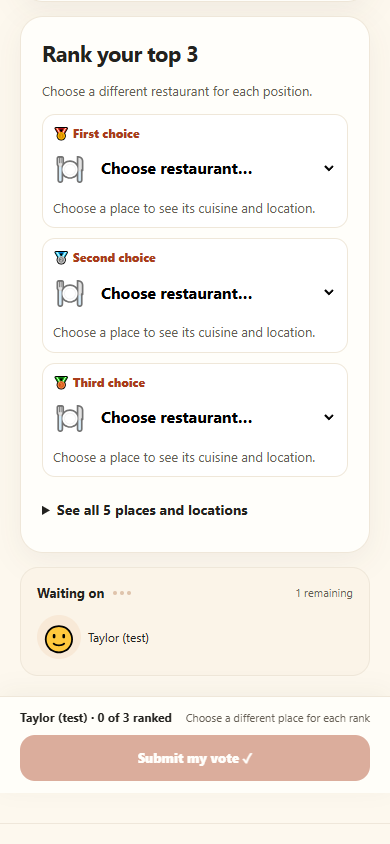
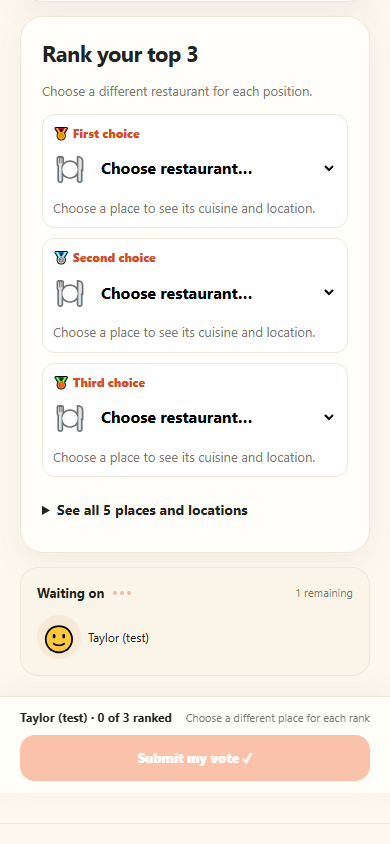
Preserve original Goodnights colors for approved release

diff --git a/styles.css b/styles.css
@@ -1,8 +1,8 @@
-:root{--ink:#23221f;--muted:#655e54;--canvas:#fdf8ee;--paper:#fffefa;--orange:#f66f40;--orange-dark:#aa3d1c;--line:#efe7d9;--mint:#e6f4ea;--lavender:#efebff;--shadow:0 8px 30px #3a2f2010;font-family:ui-rounded,'SF Pro Rounded',-apple-system,BlinkMacSystemFont,'Segoe UI',system-ui,sans-serif;color:var(--ink);background:var(--canvas)}
-*{box-sizing:border-box}body{margin:0;min-height:100vh}button,input,select{font:inherit}button{cursor:pointer}button:disabled{opacity:.42;cursor:not-allowed}button:focus-visible,input:focus-visible,select:focus-visible,a:focus-visible{outline:3px solid #8b351c;outline-offset:2px}
-a{color:inherit}.shell{min-height:100vh;max-width:900px;margin:0 auto}.topbar{display:flex;justify-content:space-between;align-items:center;padding:21px 20px 7px;gap:10px}.logo{text-decoration:none;display:flex;align-items:center;gap:9px}.brandmark{display:grid;place-items:center;color:white;background:var(--orange);width:37px;height:37px;border-radius:13px;font-size:26px;font-weight:900;transform:rotate(-9deg)}.logo strong{display:block;font-size:20px;letter-spacing:-.7px;line-height:1}.logo small{font-size:11px;color:var(--muted);font-weight:700}.pill{font-size:10px;font-weight:900;letter-spacing:1.1px;border-radius:100px;background:#fce6cf;color:#93451e;padding:7px 10px;white-space:nowrap}
-main{padding:22px 20px 30px}h1{font-size:clamp(33px,7vw,52px);line-height:1.05;letter-spacing:-1.5px;margin:0 0 13px;font-weight:850}h2{font-size:22px;letter-spacing:-.6px;margin:0 0 10px}h3{font-size:16px;margin:0 0 8px}.lede{font-size:15px;color:var(--muted);line-height:1.55;margin:0 0 24px}.eyebrow{color:var(--orange-dark);font-size:11px;font-weight:900;letter-spacing:1.5px;text-transform:uppercase;margin-bottom:11px}.card{background:var(--paper);border:1px solid var(--line);border-radius:23px;padding:21px;margin-bottom:14px;box-shadow:var(--shadow)}.hero{background:#fbe7d2;overflow:hidden;position:relative;padding:27px 24px 30px}.hero .hero-emoji{position:absolute;font-size:80px;right:-14px;bottom:-23px;transform:rotate(-12deg);opacity:.25;pointer-events:none}.hero h1{max-width:460px}.hero .btn{position:relative;z-index:1}.subtle{font-size:13px;color:var(--muted);line-height:1.5}.flex{display:flex;gap:10px;align-items:center}.between{display:flex;justify-content:space-between;align-items:center;gap:12px}.stack{display:grid;gap:12px}.grid2{display:grid;grid-template-columns:repeat(2,minmax(0,1fr));gap:12px}.btn{border:0;border-radius:15px;padding:13px 18px;display:inline-flex;align-items:center;justify-content:center;gap:8px;font-weight:800;text-align:center;line-height:1.2;min-height:46px}.btn-primary{background:var(--orange-dark);color:white}.btn-primary:hover:not(:disabled){background:#873016}.btn-dark{background:var(--ink);color:white}.btn-quiet{background:#f7f0e6;color:var(--ink)}.btn-line{background:transparent;border:1px solid #dfd7cb}.btn-full{width:100%}.btn-sm{min-height:36px;padding:8px 12px;border-radius:10px;font-size:12px}.btn-row{display:flex;gap:10px;flex-wrap:wrap}.btn-row .btn{flex:1}.nav{display:flex;gap:5px;background:#f4ecdf;padding:5px;border-radius:15px;margin-bottom:19px}.nav button{flex:1;background:transparent;border:0;border-radius:11px;padding:11px 5px;color:var(--muted);font-size:12px;font-weight:800}.nav button.active{background:white;color:var(--ink);box-shadow:0 3px 11px #3b251115}
-.field{display:grid;gap:7px;margin:14px 0}.field label{font-size:12px;font-weight:850}.field input,.field select,.searchbox{width:100%;border:1px solid #e5dccc;background:#fff;border-radius:13px;padding:13px 14px;min-height:46px;outline:none}.field input:focus,.field select:focus,.searchbox:focus{border-color:var(--orange)}.field-row{display:grid;grid-template-columns:1fr 1fr;gap:12px}.item{display:flex;gap:12px;align-items:center;padding:13px 0;border-bottom:1px solid #eee9e0}.item:last-child{border:0;padding-bottom:0}.foodicon{height:48px;width:48px;flex:0 0 48px;display:grid;place-items:center;font-size:25px;background:#f9f2e7;border-radius:15px}.item-body{flex:1;min-width:0}.item-title{font-size:14px;font-weight:850;overflow-wrap:anywhere}.item-detail{font-size:12px;line-height:1.4;color:var(--muted);margin-top:2px;overflow-wrap:anywhere}.check{appearance:none;border:2px solid #dfd5c5;width:22px;height:22px;border-radius:7px;flex:0 0 22px;display:grid;place-items:center}.check:checked{background:var(--orange-dark);border-color:var(--orange-dark)}.check:checked::after{content:'✓';color:white;font-size:15px;font-weight:900}.method{display:flex;gap:10px;align-items:flex-start;border:1.5px solid var(--line);border-radius:15px;padding:14px;margin:8px 0;cursor:pointer;background:white}.method.checked{border-color:var(--orange);background:#fff7f0}.method .methodmark{height:38px;width:38px;display:grid;place-items:center;background:#faf0e4;border-radius:12px;font-size:21px;flex:0 0 38px}.method strong{display:block;font-size:14px}.method small{display:block;font-size:12px;color:var(--muted);margin-top:3px;line-height:1.45}.method input{position:absolute;opacity:0;width:1px;height:1px}.method:focus-within{outline:2px solid var(--orange)}.count{display:inline-grid;place-items:center;background:#fff0e2;color:var(--orange-dark);font-size:12px;font-weight:900;padding:7px 10px;border-radius:100px}.empty{text-align:center;padding:27px 12px}.empty-emoji{font-size:45px;display:block;margin-bottom:9px}.empty p{color:var(--muted);font-size:13px}.empty .btn{margin-top:9px}.progress{height:7px;background:#f1ebdf;border-radius:50px;overflow:hidden;margin:12px 0 20px}.progress span{height:100%;display:block;background:var(--orange);border-radius:50px;transition:width .2s}.votecard{background:#fff5e8;border:1px solid #fae9d3;border-radius:22px;min-height:260px;text-align:center;padding:34px 14px;display:grid;align-content:center;gap:7px}.votecard .foodicon{height:92px;width:92px;font-size:52px;margin:auto}.votecard h2{margin:9px 0 0}.votecard p{color:var(--muted);font-size:13px;margin:0}.vote-btns{display:flex;gap:10px;margin-top:20px}.vote-btns button{flex:1}.rankoption{border:1px solid var(--line);border-radius:13px;padding:10px;margin-bottom:10px;background:#fff}.rankoption select{border:0;background:transparent;width:100%;font-weight:700;outline:none}.rankoption label{font-size:12px;color:var(--orange-dark);font-weight:900;display:block;margin-bottom:5px}.resultbar{margin:14px 0}.bar-head{display:flex;justify-content:space-between;gap:12px;font-size:13px;font-weight:800;margin-bottom:7px}.bar-track{height:12px;background:#f3ede5;border-radius:10px;overflow:hidden}.bar-fill{background:var(--orange);height:100%;border-radius:10px}.winner{background:#f9e9cb;text-align:center;padding:26px 15px}.winner .trophy{font-size:40px}.winner h1{font-size:31px;margin-top:8px}.toast{position:fixed;left:50%;transform:translateX(-50%);top:15px;z-index:20;background:var(--ink);color:#fff;border-radius:12px;padding:10px 17px;font-size:13px;max-width:min(90%,460px);box-shadow:0 12px 30px #0002;display:none}.toast.show{display:block}.footer{padding:18px 20px 27px;display:flex;justify-content:space-between;gap:15px;font-size:11px;color:var(--muted);border-top:1px solid #efe7da;flex-wrap:wrap}.footer a{color:inherit}.copyline{padding:10px 12px;border:1px dashed #d8cbb6;background:#fffaf3;border-radius:11px;font-size:12px;word-break:break-all}.status{font-size:12px;background:var(--mint);padding:7px 10px;border-radius:40px;font-weight:800;color:#36714a}.status.closed{background:#eee9e3;color:var(--muted)}.muted-box{background:#fbf6ed;border:1px solid #f3e6d5;padding:13px 15px;border-radius:14px;font-size:13px;line-height:1.5;color:var(--muted)}.note{font-size:12px;color:var(--muted);line-height:1.55}.danger{color:#a34a3c}.toggle{display:flex;align-items:center;gap:7px;font-size:13px;font-weight:700}.toggle input{accent-color:var(--orange)}
+:root{--ink:#23221f;--muted:#7b786f;--canvas:#fdf8ee;--paper:#fffefa;--orange:#f66f40;--orange-dark:#d84b23;--line:#efe7d9;--mint:#e6f4ea;--lavender:#efebff;--shadow:0 8px 30px #3a2f2010;font-family:ui-rounded,'SF Pro Rounded',-apple-system,BlinkMacSystemFont,'Segoe UI',system-ui,sans-serif;color:var(--ink);background:var(--canvas)}
+*{box-sizing:border-box}body{margin:0;min-height:100vh}button,input,select{font:inherit}button{cursor:pointer}button:disabled{opacity:.42;cursor:not-allowed}button:focus-visible,input:focus-visible,select:focus-visible,a:focus-visible{outline:3px solid #ef9156;outline-offset:2px}
+a{color:inherit}.shell{min-height:100vh;max-width:900px;margin:0 auto}.topbar{display:flex;justify-content:space-between;align-items:center;padding:21px 20px 7px;gap:10px}.logo{text-decoration:none;display:flex;align-items:center;gap:9px}.brandmark{display:grid;place-items:center;color:white;background:var(--orange);width:37px;height:37px;border-radius:13px;font-size:26px;font-weight:900;transform:rotate(-9deg)}.logo strong{display:block;font-size:20px;letter-spacing:-.7px;line-height:1}.logo small{font-size:11px;color:var(--muted);font-weight:700}.pill{font-size:10px;font-weight:900;letter-spacing:1.1px;border-radius:100px;background:#fce6cf;color:#ae5a29;padding:7px 10px;white-space:nowrap}
+main{padding:22px 20px 30px}h1{font-size:clamp(33px,7vw,52px);line-height:1.05;letter-spacing:-1.5px;margin:0 0 13px;font-weight:850}h2{font-size:22px;letter-spacing:-.6px;margin:0 0 10px}h3{font-size:16px;margin:0 0 8px}.lede{font-size:15px;color:#777165;line-height:1.55;margin:0 0 24px}.eyebrow{color:var(--orange-dark);font-size:11px;font-weight:900;letter-spacing:1.5px;text-transform:uppercase;margin-bottom:11px}.card{background:var(--paper);border:1px solid var(--line);border-radius:23px;padding:21px;margin-bottom:14px;box-shadow:var(--shadow)}.hero{background:#fbe7d2;overflow:hidden;position:relative;padding:27px 24px 30px}.hero .hero-emoji{position:absolute;font-size:80px;right:-14px;bottom:-23px;transform:rotate(-12deg);opacity:.25;pointer-events:none}.hero h1{max-width:460px}.hero .btn{position:relative;z-index:1}.subtle{font-size:13px;color:var(--muted);line-height:1.5}.flex{display:flex;gap:10px;align-items:center}.between{display:flex;justify-content:space-between;align-items:center;gap:12px}.stack{display:grid;gap:12px}.grid2{display:grid;grid-template-columns:repeat(2,minmax(0,1fr));gap:12px}.btn{border:0;border-radius:15px;padding:13px 18px;display:inline-flex;align-items:center;justify-content:center;gap:8px;font-weight:800;text-align:center;line-height:1.2;min-height:46px}.btn-primary{background:var(--orange);color:white}.btn-primary:hover:not(:disabled){background:var(--orange-dark)}.btn-dark{background:var(--ink);color:white}.btn-quiet{background:#f7f0e6;color:var(--ink)}.btn-line{background:transparent;border:1px solid #dfd7cb}.btn-full{width:100%}.btn-sm{min-height:36px;padding:8px 12px;border-radius:10px;font-size:12px}.btn-row{display:flex;gap:10px;flex-wrap:wrap}.btn-row .btn{flex:1}.nav{display:flex;gap:5px;background:#f4ecdf;padding:5px;border-radius:15px;margin-bottom:19px}.nav button{flex:1;background:transparent;border:0;border-radius:11px;padding:11px 5px;color:#77736d;font-size:12px;font-weight:800}.nav button.active{background:white;color:var(--ink);box-shadow:0 3px 11px #3b251115}
+.field{display:grid;gap:7px;margin:14px 0}.field label{font-size:12px;font-weight:850}.field input,.field select,.searchbox{width:100%;border:1px solid #e5dccc;background:#fff;border-radius:13px;padding:13px 14px;min-height:46px;outline:none}.field input:focus,.field select:focus,.searchbox:focus{border-color:var(--orange)}.field-row{display:grid;grid-template-columns:1fr 1fr;gap:12px}.item{display:flex;gap:12px;align-items:center;padding:13px 0;border-bottom:1px solid #eee9e0}.item:last-child{border:0;padding-bottom:0}.foodicon{height:48px;width:48px;flex:0 0 48px;display:grid;place-items:center;font-size:25px;background:#f9f2e7;border-radius:15px}.item-body{flex:1;min-width:0}.item-title{font-size:14px;font-weight:850;overflow-wrap:anywhere}.item-detail{font-size:12px;line-height:1.4;color:#817d75;margin-top:2px;overflow-wrap:anywhere}.check{appearance:none;border:2px solid #dfd5c5;width:22px;height:22px;border-radius:7px;flex:0 0 22px;display:grid;place-items:center}.check:checked{background:var(--orange);border-color:var(--orange)}.check:checked::after{content:'✓';color:white;font-size:15px;font-weight:900}.method{display:flex;gap:10px;align-items:flex-start;border:1.5px solid var(--line);border-radius:15px;padding:14px;margin:8px 0;cursor:pointer;background:white}.method.checked{border-color:var(--orange);background:#fff7f0}.method .methodmark{height:38px;width:38px;display:grid;place-items:center;background:#faf0e4;border-radius:12px;font-size:21px;flex:0 0 38px}.method strong{display:block;font-size:14px}.method small{display:block;font-size:12px;color:var(--muted);margin-top:3px;line-height:1.45}.method input{position:absolute;opacity:0;width:1px;height:1px}.method:focus-within{outline:2px solid var(--orange)}.count{display:inline-grid;place-items:center;background:#fff0e2;color:var(--orange-dark);font-size:12px;font-weight:900;padding:7px 10px;border-radius:100px}.empty{text-align:center;padding:27px 12px}.empty-emoji{font-size:45px;display:block;margin-bottom:9px}.empty p{color:var(--muted);font-size:13px}.empty .btn{margin-top:9px}.progress{height:7px;background:#f1ebdf;border-radius:50px;overflow:hidden;margin:12px 0 20px}.progress span{height:100%;display:block;background:var(--orange);border-radius:50px;transition:width .2s}.votecard{background:#fff5e8;border:1px solid #fae9d3;border-radius:22px;min-height:260px;text-align:center;padding:34px 14px;display:grid;align-content:center;gap:7px}.votecard .foodicon{height:92px;width:92px;font-size:52px;margin:auto}.votecard h2{margin:9px 0 0}.votecard p{color:var(--muted);font-size:13px;margin:0}.vote-btns{display:flex;gap:10px;margin-top:20px}.vote-btns button{flex:1}.rankoption{border:1px solid var(--line);border-radius:13px;padding:10px;margin-bottom:10px;background:#fff}.rankoption select{border:0;background:transparent;width:100%;font-weight:700;outline:none}.rankoption label{font-size:12px;color:var(--orange-dark);font-weight:900;display:block;margin-bottom:5px}.resultbar{margin:14px 0}.bar-head{display:flex;justify-content:space-between;gap:12px;font-size:13px;font-weight:800;margin-bottom:7px}.bar-track{height:12px;background:#f3ede5;border-radius:10px;overflow:hidden}.bar-fill{background:var(--orange);height:100%;border-radius:10px}.winner{background:#f9e9cb;text-align:center;padding:26px 15px}.winner .trophy{font-size:40px}.winner h1{font-size:31px;margin-top:8px}.toast{position:fixed;left:50%;transform:translateX(-50%);top:15px;z-index:20;background:var(--ink);color:#fff;border-radius:12px;padding:10px 17px;font-size:13px;max-width:min(90%,460px);box-shadow:0 12px 30px #0002;display:none}.toast.show{display:block}.footer{padding:18px 20px 27px;display:flex;justify-content:space-between;gap:15px;font-size:11px;color:#aba293;border-top:1px solid #efe7da;flex-wrap:wrap}.footer a{color:inherit}.copyline{padding:10px 12px;border:1px dashed #d8cbb6;background:#fffaf3;border-radius:11px;font-size:12px;word-break:break-all}.status{font-size:12px;background:var(--mint);padding:7px 10px;border-radius:40px;font-weight:800;color:#36714a}.status.closed{background:#eee9e3;color:#7b746c}.muted-box{background:#fbf6ed;border:1px solid #f3e6d5;padding:13px 15px;border-radius:14px;font-size:13px;line-height:1.5;color:#7b7368}.note{font-size:12px;color:var(--muted);line-height:1.55}.danger{color:#a34a3c}.toggle{display:flex;align-items:center;gap:7px;font-size:13px;font-weight:700}.toggle input{accent-color:var(--orange)}
 @media(min-width:700px){main{padding:30px 35px 50px}.topbar{padding:27px 35px 8px}.footer{padding:20px 35px}.hero{padding:44px}.card{padding:24px}.cols{display:grid;grid-template-columns:1fr 1fr;gap:16px}.cols .card{margin-bottom:0}}
 @media(max-width:385px){main{padding:16px 12px}.topbar{padding:19px 13px 5px}.grid2{grid-template-columns:1fr}.field-row{grid-template-columns:1fr}.btn{font-size:13px}.logo strong{font-size:18px}}
 
@@ -56,9 +56,9 @@ main{padding:22px 20px 30px}h1{font-size:clamp(33px,7vw,52px);line-height:1.05;l
 .member-identity>.member-avatar{width:72px;height:72px;flex-basis:72px;font-size:40px}
 .member-invite summary .member-avatar{width:48px;height:48px;flex-basis:48px;font-size:28px}
 .member-identity strong{font-size:19px}
-.wizard-flow{padding-bottom:140px}.wizard-steps{display:grid;grid-template-columns:repeat(4,minmax(0,1fr));gap:5px;margin:20px 0}.wizard-steps button{border:0;min-height:62px;padding:7px 2px;border-radius:13px;background:#f4ecdf;font-size:12px;font-weight:800;color:var(--muted)}.wizard-steps button span{display:block;font-size:15px;margin-bottom:3px}.wizard-steps button.active{background:var(--orange-dark);color:white}
+.wizard-flow{padding-bottom:140px}.wizard-steps{display:grid;grid-template-columns:repeat(4,minmax(0,1fr));gap:5px;margin:20px 0}.wizard-steps button{border:0;min-height:62px;padding:7px 2px;border-radius:13px;background:#f4ecdf;font-size:12px;font-weight:800;color:#756c60}.wizard-steps button span{display:block;font-size:15px;margin-bottom:3px}.wizard-steps button.active{background:#f66f40;color:white}
 .wizard-actions{position:fixed;z-index:12;left:50%;transform:translateX(-50%);bottom:0;width:min(100%,900px);padding:12px 20px calc(12px + env(safe-area-inset-bottom));background:#fffefaef;backdrop-filter:blur(14px);border-top:1px solid var(--line);box-shadow:0 -5px 24px #30220b0c;display:flex;align-items:center;gap:14px}.wizard-count{flex:1;min-width:0}.wizard-count strong{display:block;font-size:14px}.wizard-count span{display:block;font-size:11px;color:var(--muted);margin-top:4px}.wizard-actions .btn-row{flex-wrap:nowrap}.wizard-actions .btn{font-size:13px;padding:12px 16px}.practice-link{margin:0 0 15px}.review-hero{background:#fbe7d2}
-.people-grid{display:grid;grid-template-columns:repeat(3,minmax(0,1fr));gap:10px;margin:18px 0}.person-option{position:relative;border:2px solid var(--line);border-radius:18px;padding:14px 5px 12px;text-align:center;background:white;display:flex;flex-direction:column;align-items:center;gap:9px;cursor:pointer;min-width:0}.person-option strong{font-size:13px;overflow-wrap:anywhere}.person-option input{position:absolute;top:7px;right:7px;width:18px;height:18px;accent-color:var(--orange)}.person-option.selected{border-color:var(--orange);background:#fff6ec}.person-option:focus-within{outline:3px solid #8b351c;outline-offset:2px}.review-people .person-option{cursor:default;background:#fff8ef}
+.people-grid{display:grid;grid-template-columns:repeat(3,minmax(0,1fr));gap:10px;margin:18px 0}.person-option{position:relative;border:2px solid var(--line);border-radius:18px;padding:14px 5px 12px;text-align:center;background:white;display:flex;flex-direction:column;align-items:center;gap:9px;cursor:pointer;min-width:0}.person-option strong{font-size:13px;overflow-wrap:anywhere}.person-option input{position:absolute;top:7px;right:7px;width:18px;height:18px;accent-color:var(--orange)}.person-option.selected{border-color:var(--orange);background:#fff6ec}.person-option:focus-within{outline:3px solid #ef9156;outline-offset:2px}.review-people .person-option{cursor:default;background:#fff8ef}
 .people-panel{background:#fbf4e8;border:1px solid var(--line);border-radius:18px;padding:16px;margin:14px 0 20px}.people-panel>.between strong{font-size:13px}.people-panel>.between span{font-size:11px}.waiting-strip{display:flex;gap:12px;align-items:center;flex-wrap:wrap;margin-top:14px}.waiting-person{display:flex;align-items:center;gap:7px;min-width:0}.waiting-person>span:last-child{font-size:12px;max-width:90px;overflow-wrap:anywhere}.waiting-person .member-avatar{width:44px;height:44px;flex-basis:44px;font-size:25px}.people-status summary{font-size:12px;font-weight:750;min-height:40px;cursor:pointer;display:list-item;align-content:center}.person-status-row{display:flex;gap:9px;align-items:center;padding:12px 0;border-top:1px solid var(--line)}.person-status-row .member-avatar{width:44px;height:44px;flex-basis:44px;font-size:24px}.person-status-row strong{flex:1;min-width:0;overflow-wrap:anywhere;font-size:13px}.person-status-row .subtle{font-size:11px}.person-status-row .btn{padding:8px;font-size:11px}.reminder-draft .btn{text-decoration:none;flex:1 1 90px}.winner .foodicon{width:88px;height:88px;margin:0 auto 15px}.winner h1 .restaurant-brand-image,.winner h1 .logo-symbol{width:64px;height:64px}.winner-address{font-size:14px;line-height:1.6;max-width:420px;margin:14px auto 20px}.winner a{text-decoration:none}
 @media(max-width:385px){.wizard-actions{padding-left:12px;padding-right:12px;gap:8px}.wizard-actions .btn{padding:12px 10px;font-size:12px}.wizard-count strong{font-size:12px}.people-grid{gap:7px}.person-option .member-avatar{width:58px;height:58px;flex-basis:58px}.person-status-row{gap:6px}.waiting-person>span:last-child{max-width:72px}}
 .wizard-actions .btn-row{flex:0 0 auto}.wizard-actions .btn{flex:0 0 auto;white-space:nowrap}.winner h1{overflow-wrap:anywhere}.winner-place-logo{display:grid;place-items:center;margin:10px auto 16px}.winner-place-logo .logo-symbol,.winner-place-logo .restaurant-brand-image{width:76px;height:76px;object-fit:contain}
@@ -91,19 +91,15 @@ main{padding:22px 20px 30px}h1{font-size:clamp(33px,7vw,52px);line-height:1.05;l
 
 /* Readable ballot details and restrained directional feedback. */
 .topbar{flex-wrap:wrap}.topbar .logo{min-width:0;max-width:100%}.logo>span:last-child{min-width:0;overflow-wrap:anywhere}.topbar .pill{max-width:100%;white-space:normal}
-.field input:focus-visible,.field select:focus-visible,.rankoption select:focus-visible,#swipeCard:focus-visible{outline:3px solid #8b351c;outline-offset:3px}
-.method:focus-within{outline:3px solid #8b351c;outline-offset:2px}
-.check{border-color:#8c8172}.check:focus-visible{outline:3px solid #8b351c}
-.toggle input,.setting-row input,.person-option input{accent-color:var(--orange-dark)}
+.field input:focus-visible,.field select:focus-visible,.rankoption select:focus-visible,#swipeCard:focus-visible{outline:3px solid #ef9156;outline-offset:3px}
+.method:focus-within{outline:3px solid #ef9156;outline-offset:2px}
 .item-detail,.rank-details{font-size:13px;line-height:1.5}
 .ballot-places summary{cursor:pointer;min-height:44px;align-content:center;font-size:14px;font-weight:750}
 .rank-details{margin:8px 0 0;overflow-wrap:anywhere}
-.votecard{position:relative;padding:18px 14px 24px;transform:translateX(var(--swipe-x,0px)) rotate(var(--swipe-tilt,0deg));transition:transform .14s ease-out,border-color .14s ease-out}
+.votecard{position:relative;padding:18px 14px 24px;transform:translateX(var(--swipe-x,0px)) rotate(var(--swipe-tilt,0deg));transition:transform .14s ease-out}
 .votecard h2,.votecard .restaurant-facts{overflow-wrap:anywhere}
 .votecard .restaurant-facts{color:var(--muted);font-size:14px;line-height:1.5}
 .swipe-direction{justify-self:center;min-height:28px;padding:4px 10px;border-radius:8px;font-size:13px;font-weight:850;color:var(--ink)}
-#swipeCard[data-direction="yes"]{border-color:#28734e}#swipeCard[data-direction="yes"] .swipe-direction{background:#e6f4ea;color:#205c3b}
-#swipeCard[data-direction="no"]{border-color:#aa3d1c}#swipeCard[data-direction="no"] .swipe-direction{background:#fbe7d2;color:#873016}
 .votecard .swipe-answer{font-size:13px;font-weight:750;color:var(--ink)}
 #swipeInstructions{text-align:center;margin:12px 0 0}
 .vote-btns{margin-top:12px}.vote-btns .btn{min-width:0;padding:13px 10px}

diff --git a/tests/ballot-accessibility.test.js b/tests/ballot-accessibility.test.js
@@ -1,20 +1,18 @@
 const test=require('node:test'),assert=require('node:assert/strict'),fs=require('node:fs'),path=require('node:path');
 const css=fs.readFileSync(path.join(__dirname,'../styles.css'),'utf8');
-const vars=Object.fromEntries([...css.matchAll(/--([\w-]+):(#[0-9a-f]{6})/g)].map(m=>[m[1],m[2]]));
-function luminance(hex){const rgb=hex.slice(1).match(/../g).map(n=>parseInt(n,16)/255).map(v=>v<=.04045?v/12.92:((v+.055)/1.055)**2.4);return rgb[0]*.2126+rgb[1]*.7152+rgb[2]*.0722}
-function ratio(a,b){const x=luminance(a),y=luminance(b);return (Math.max(x,y)+.05)/(Math.min(x,y)+.05)}
-const resolve=value=>value==='white'?'#ffffff':value.startsWith('var(')?vars[value.slice(6,-1)]:value;
-test('ballot secondary text and accent labels exceed 4.5:1 on their cream surfaces',()=>{
- for(const bg of [vars.canvas,vars.paper,'#fff5e8','#fbf6ed','#fbf4e8'])for(const fg of [vars.muted,vars.ink,vars['orange-dark']])assert.ok(ratio(fg,bg)>=4.5,fg+' on '+bg);
+test('release retains the existing Goodnights brand and text palette',()=>{
+ for(const token of ['--ink:#23221f','--muted:#7b786f','--orange:#f66f40','--orange-dark:#d84b23'])assert.ok(css.includes(token));
+ assert.ok(css.includes('.btn-primary{background:var(--orange);color:white}'));
+ assert.ok(css.includes('.btn-primary:hover:not(:disabled){background:var(--orange-dark)}'));
+ assert.ok(css.includes('.check:checked{background:var(--orange);border-color:var(--orange)}'));
 });
-test('enabled primary actions and checked approvals exceed 4.5:1',()=>{
- const primary=css.match(/\.btn-primary\{background:([^;]+);color:([^}]+)\}/);
- assert.ok(ratio(resolve(primary[1]),resolve(primary[2]))>=4.5);
- const selected=css.match(/\.check:checked\{background:([^;]+);/)[1];
- assert.ok(ratio(resolve(selected),'#ffffff')>=4.5);
+test('new directional feedback uses text and retains the original palette',()=>{
+ const added=css.split('/* Readable ballot details and restrained directional feedback. */')[1];
+ assert.ok(!added.includes('[data-direction=\"yes\"]'));assert.ok(!added.includes('[data-direction=\"no\"]'));
+ assert.deepEqual([...new Set(added.match(/#[0-9a-f]{6}/g))],['#ef9156']);
 });
-test('focus ring and checkbox boundary remain visible at 3:1 or better',()=>{
- const focus=css.match(/button:focus-visible[^}]+outline:3px solid (#[0-9a-f]{6})/)[1];
- for(const bg of [vars.paper,vars.canvas,'#fff5e8'])assert.ok(ratio(focus,bg)>=3);
- const boundary=css.match(/\.check\{border-color:(#[0-9a-f]{6})/)[1];assert.ok(ratio(boundary,vars.paper)>=3);
+test('native fields and swipe backtracking have visible focus and comfortable detail controls',()=>{
+ assert.match(css,/\.rankoption select:focus-visible,#swipeCard:focus-visible\{outline:3px solid #ef9156/);
+ assert.match(css,/\.ballot-places summary\{[^}]*min-height:44px/);
+ assert.match(css,/@media\(prefers-reduced-motion:reduce\)\{\.votecard\{transform:none!important;transition:none!important/);
 });

diff --git a/docs/qa/q1-h3/README.md b/docs/qa/q1-h3/README.md
@@ -18,13 +18,13 @@ Two identically named places now have distinct saved addresses. Missing location
 
 ## Automated evidence
 
-- Baseline Node suite: 63/63 passed. Final suite: 69/69 passed, including contrast, location/fallback, select-detail updates, scroll-direction lock, second-finger cancellation and mismatched-touch coverage. Existing editing, failed-save, focus and logo tests still pass.
-- Contrast calculations: white primary-button text **6.19:1** (formerly **2.89:1**); muted copy on the swipe background **5.93:1** (formerly **4.09:1**). Ordinary ballot secondary text/accent labels exceed 4.5:1 across the tested cream surfaces; focus rings and checkbox boundaries exceed 3:1. Disabled controls remain visually subdued and are excluded from enabled-text contrast assertions.
+- Baseline Node suite: 63/63 passed. Final suite: 69/69 passed, including original-palette preservation, location/fallback, select-detail updates, scroll-direction lock, second-finger cancellation and mismatched-touch coverage. Existing editing, failed-save, focus and logo tests still pass.
+- Release scope adjustment: original brand, button, text, checkbox and focus colors are preserved. Color contrast changes were removed by request; no improved contrast ratio is claimed. Directional feedback uses words and movement, with reduced-motion support.
 - Headless Edge/Chromium with Playwright 1.62.1: approval, swipe and ranked ballots at **320, 375, 390, 430px**; landscape **844×390** and short viewport **390×420**. No horizontal overflow against the requested viewport width, including simulated 200% text sizing at 320px.
 - Keyboard: Space selects approvals without losing focus; Enter answers consensus and retains button focus; Tab moves between native ranked controls. Select identity/focus and duplicate clearing are verified in the real DOM.
 - Actual Chromium touch injection: vertical movement scrolls without answering; horizontal movement provides a directional text cue and restrained transform, then answers exactly once on release; cancelled gestures do not answer. Reduced-motion transform is `none`. DOM fixture tests also exercise a scroll that ends with sideways drift, a second finger and an unrelated touch identifier.
 - All five consensus answers, backtracking after the final card, explicit submission, failed saves and retries for **all three voting methods**. Exact saved payloads match existing ballot semantics. Answering/revealing/backtracking makes no voting RPC; nothing saves until explicit submission.
-- Broken image response shows the existing SVG fallback. Simulated 34px bottom safe-area padding leaves submit visible in landscape/short viewports. Screenshots were visually inspected for address wrapping, feedback, contrast and larger text.
+- Broken image response shows the existing SVG fallback. Simulated 34px bottom safe-area padding leaves submit visible in landscape/short viewports. Screenshots were visually inspected for address wrapping, feedback and larger text.
 
 ## Reproduce
 

diff --git a/README.md b/README.md
@@ -209,6 +209,6 @@ Ballot actions now occupy their own space at the bottom of the ballot and stay v
 
 Approval and consensus ballots show each restaurant's saved cuisine and address; missing addresses say **Location not saved**. Ranked-choice menus include addresses to distinguish locations, show the selected place's details beside each native control, and offer **See all places and locations**. This uses saved information without a new lookup or provider.
 
-Enabled primary actions use a deeper coral, secondary text is darker, and keyboard focus/checkbox boundaries are clearer. Swipe cards give small left/right feedback with explicit **Not tonight / Sounds good** text. Vertical scrolling, yes/no buttons, answer progress, backtracking and explicit submission remain available. Returning to an answered card shows the saved yes/no answer. Reduced-motion users get the directional text without movement. Ranking details update without replacing or refocusing the iOS native select.
+The existing Goodnights brand, button and text colors are preserved. Swipe cards give small left/right feedback with explicit **Not tonight / Sounds good** text. Vertical scrolling, yes/no buttons, answer progress, backtracking and explicit submission remain available. Returning to an answered card shows the saved yes/no answer. Reduced-motion users get the directional text without movement. Ranking details update without replacing or refocusing the iOS native select.
 
 No voting rules, backend, data or credentials change. [Before/after screenshots and QA evidence](docs/qa/q1-h3/README.md) document synthetic mobile/keyboard/gesture/failed-save checks and physical-device limitations. Run the normal Node suite with `node --test tests/*.test.js`; the optional real-browser runner is documented there.
